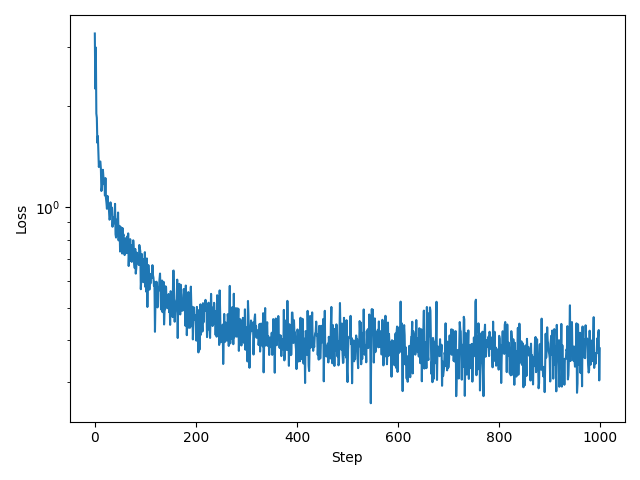
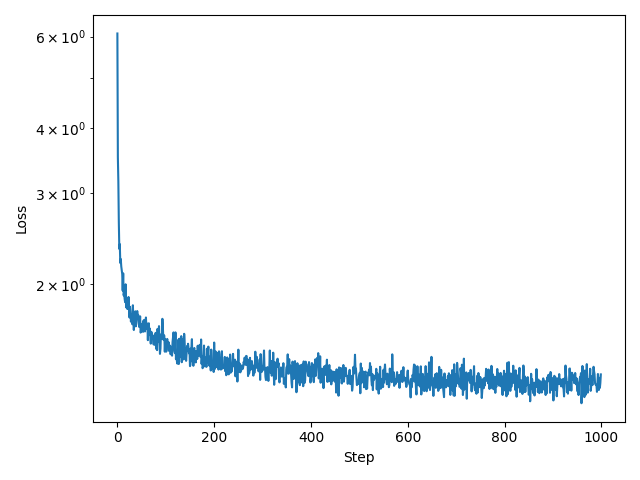
enhanced simple encoder / decoder with normalization and activation

diff --git a/src/diffusion_models/architectures/blocks/encoders.py b/src/diffusion_models/architectures/blocks/encoders.py
@@ -2,10 +2,10 @@ import torch
 import torch.nn as nn
 
 from diffusion_models.architectures.blocks.base import (
+    AdaGroupNorm,
     CrossChannelAttention,
     DepthwiseConv1DExplicit,
     ResidualLayer,
-    ResidualLayer1D,
     SeperableConv1D,
     get_activation,
 )
@@ -51,14 +51,23 @@ class Encoder1D(nn.Module):
         channels_out: int,
         num_residual_layers: int,
         cond_dim: int,
+        num_groups: int = 8,
+        activation: str = "silu",
     ):
         super().__init__()
         self.res_blocks = nn.ModuleList(
-            [ResidualLayer1D(channels_in, cond_dim) for _ in range(num_residual_layers)]
+            [
+                ResidualLayer(channels_in, cond_dim, use_1d=True)
+                for _ in range(num_residual_layers)
+            ]
         )
         self.downsample = nn.Conv1d(
             channels_in, channels_out, kernel_size=3, stride=2, padding=1
         )
+        self.norm = AdaGroupNorm(
+            num_groups=num_groups, num_channels=channels_out, cond_dim=cond_dim
+        )
+        self.activation = get_activation(activation)
 
     def forward(self, x: torch.Tensor, cond_embed: torch.Tensor) -> torch.Tensor:
         """
@@ -72,6 +81,8 @@ class Encoder1D(nn.Module):
 
         # Downsample: (bs, c_in, L) -> (bs, c_out, L // 2)
         x = self.downsample(x)
+        x = self.norm(x, cond_embed)
+        x = self.activation(x)
 
         return x
 
@@ -94,7 +105,7 @@ class TFiLMEncoder(nn.Module):
         super().__init__()
         self.res_blocks = nn.ModuleList(
             [
-                ResidualLayer1D(channels_in, cond_dim=cond_dim)
+                ResidualLayer(channels_in, cond_dim=cond_dim, use_1d=True)
                 for _ in range(num_residual_layers)
             ]
         )
@@ -173,7 +184,7 @@ class HAEncoder(nn.Module):
         # Define Layers
         self.res_blocks = nn.ModuleList(
             [
-                ResidualLayer1D(channels, cond_dim=cond_dim)
+                ResidualLayer(channels, cond_dim=cond_dim, use_1d=True)
                 for _ in range(num_residual_layers)
             ]
         )
@@ -260,7 +271,7 @@ class HAEncoderTFiLM(nn.Module):
         # Define Layers
         self.res_blocks = nn.ModuleList(
             [
-                ResidualLayer1D(channels, cond_dim=cond_dim)
+                ResidualLayer(channels, cond_dim=cond_dim, use_1d=True)
                 for _ in range(num_residual_layers)
             ]
         )
@@ -331,7 +342,7 @@ class HAEncoderImproved(nn.Module):
 
         self.res_blocks = nn.ModuleList(
             [
-                ResidualLayer1D(channels, cond_dim=cond_dim)
+                ResidualLayer(channels, cond_dim=cond_dim, use_1d=True)
                 for _ in range(num_residual_layers)
             ]
         )

diff --git a/src/diffusion_models/architectures/blocks/decoders.py b/src/diffusion_models/architectures/blocks/decoders.py
@@ -2,10 +2,10 @@ import torch
 import torch.nn as nn
 
 from diffusion_models.architectures.blocks.base import (
+    AdaGroupNorm,
     CrossChannelAttention,
     DepthwiseConv1DExplicit,
     ResidualLayer,
-    ResidualLayer1D,
     SeperableConv1D,
     get_activation,
 )
@@ -52,6 +52,8 @@ class Decoder1D(nn.Module):
         channels_out: int,
         num_residual_layers: int,
         cond_dim: int,
+        num_groups: int = 8,
+        activation: str = "silu",
     ):
         super().__init__()
         self.upsample = nn.Sequential(
@@ -60,10 +62,14 @@ class Decoder1D(nn.Module):
         )
         self.res_blocks = nn.ModuleList(
             [
-                ResidualLayer1D(channels_out, cond_dim)
+                ResidualLayer(channels_out, cond_dim, use_1d=True)
                 for _ in range(num_residual_layers)
             ]
         )
+        self.norm = AdaGroupNorm(
+            num_groups=8, num_channels=channels_out, cond_dim=cond_dim
+        )
+        self.activation = get_activation(activation)
 
     def forward(self, x: torch.Tensor, cond_embed: torch.Tensor) -> torch.Tensor:
         """
@@ -73,6 +79,8 @@ class Decoder1D(nn.Module):
         """
         # Upsample: (bs, c_in, L) -> (bs, c_out, 2*L)
         x = self.upsample(x)
+        x = self.norm(x, cond_embed)
+        x = self.activation(x)
 
         # Pass through residual blocks: (bs, c_out, 2*L) -> (bs, c_out, 2*L)
         for block in self.res_blocks:
@@ -132,7 +140,7 @@ class TFiLMDecoder(nn.Module):
             )
         self.res_blocks = nn.ModuleList(
             [
-                ResidualLayer1D(channels_out, cond_dim=cond_dim)
+                ResidualLayer(channels_out, cond_dim=cond_dim, use_1d=True)
                 for _ in range(num_residual_layers)
             ]
         )
@@ -199,7 +207,7 @@ class HADecoder(nn.Module):
 
         self.res_blocks = nn.ModuleList(
             [
-                ResidualLayer1D(channels, cond_dim=cond_dim)
+                ResidualLayer(channels, cond_dim=cond_dim, use_1d=True)
                 for _ in range(num_residual_layers)
             ]
         )
@@ -292,7 +300,7 @@ class HADecoderTFiLM(nn.Module):
 
         self.res_blocks = nn.ModuleList(
             [
-                ResidualLayer1D(channels, cond_dim=cond_dim)
+                ResidualLayer(channels, cond_dim=cond_dim, use_1d=True)
                 for _ in range(num_residual_layers)
             ]
         )
@@ -374,7 +382,7 @@ class HADecoderImproved(nn.Module):
 
         self.res_blocks = nn.ModuleList(
             [
-                ResidualLayer1D(channels, cond_dim=cond_dim)
+                ResidualLayer(channels, cond_dim=cond_dim, use_1d=True)
                 for _ in range(num_residual_layers)
             ]
         )

diff --git a/src/diffusion_models/architectures/blocks/midcoders.py b/src/diffusion_models/architectures/blocks/midcoders.py
@@ -1,7 +1,7 @@
 import torch
 import torch.nn as nn
 
-from diffusion_models.architectures.blocks.base import ResidualLayer, ResidualLayer1D
+from diffusion_models.architectures.blocks.base import ResidualLayer
 from diffusion_models.architectures.blocks.tfilm import TFiLM, TFiLMTransformer
 
 
@@ -29,7 +29,10 @@ class Midcoder1D(nn.Module):
     def __init__(self, channels: int, num_residual_layers: int, cond_dim: int):
         super().__init__()
         self.res_blocks = nn.ModuleList(
-            [ResidualLayer1D(channels, cond_dim) for _ in range(num_residual_layers)]
+            [
+                ResidualLayer(channels, cond_dim, use_1d=True)
+                for _ in range(num_residual_layers)
+            ]
         )
 
     def forward(self, x: torch.Tensor, cond_embed: torch.Tensor) -> torch.Tensor:
@@ -56,7 +59,10 @@ class MidcoderTransformer1D(nn.Module):
     ):
         super().__init__()
         self.res_blocks = nn.ModuleList(
-            [ResidualLayer1D(channels, cond_dim) for _ in range(num_residual_layers)]
+            [
+                ResidualLayer(channels, cond_dim, use_1d=True)
+                for _ in range(num_residual_layers)
+            ]
         )
 
         encoderLayer = nn.TransformerEncoderLayer(
@@ -103,7 +109,7 @@ class TFiLMMidcoder(nn.Module):
         super().__init__()
         self.res_blocks = nn.ModuleList(
             [
-                ResidualLayer1D(channels, cond_dim=cond_dim)
+                ResidualLayer(channels, cond_dim=cond_dim, use_1d=True)
                 for _ in range(num_residual_layers)
             ]
         )
@@ -124,6 +130,7 @@ class TFiLMMidcoder(nn.Module):
         """
         Args:
         - x: (bs, c, L)
+        - cond_embed: (bs, cond_dim)
         """
         # Pass through residual blocks: (bs, c, L) -> (bs, c, L)
         for block in self.res_blocks:

diff --git a/src/diffusion_models/models/standard/one_d_diffusion_model.py b/src/diffusion_models/models/standard/one_d_diffusion_model.py
@@ -12,7 +12,7 @@ device = torch.device("cuda" if torch.cuda.is_available() else "cpu")
 # Initialize probability path
 path = GaussianConditionalProbabilityPath(
     p_data=SineWaveSampler(),
-    p_simple_shape=[1, 32, 32],
+    p_simple_shape=[1, 100 * int(2 * torch.pi)],
     alpha=LinearAlpha(),
     beta=LinearBeta(),
 ).to(device)
@@ -34,4 +34,4 @@ trainer.train(num_epochs=1000, device=device, lr=1e-3, batch_size=250)
 visualize_generated_sine_waves(model=unet, guidance_scales=(1.0, 2.0, 4.0))
 
 # Model summary:
-# trains fast (about 10 it/s), has about 1.8 MiB parameters, achieves loss of around 0.379 after 1000 epochs, samples look good empirically.
+# trains fast (about 8.3 it/s), has about 2.5 MiB parameters, achieves loss of around 0.35 after 1000 epochs, samples look ok empirically.

diff --git a/src/diffusion_models/architectures/blocks/base.py b/src/diffusion_models/architectures/blocks/base.py
@@ -160,18 +160,18 @@ class ResidualLayer(nn.Module):
         - output: same shape as x
         """
         res = x
-        x = self.activation(x)
-        x = self.norm1(x, cond)
         x = self.conv1(x)
+        x = self.norm1(x, cond)
+        x = self.activation(x)
 
         cond_adapted = self.cond_adapter(cond)  # (bs, c)
         for _ in range(x.ndim - 2):
             cond_adapted = cond_adapted.unsqueeze(-1)  # (bs, c, 1, ..., 1)
         x = x + cond_adapted
 
-        x = self.activation(x)
-        x = self.norm2(x, cond)
         x = self.conv2(x)
+        x = self.norm2(x, cond)
+        x = self.activation(x)
 
         return x + res
 

diff --git a/src/diffusion_models/models/standard/wave_diff_model.py b/src/diffusion_models/models/standard/wave_diff_model.py
@@ -29,7 +29,8 @@ net = StandardUNet(
 )
 
 trainer = CFGTrainer(path=path, model=net, eta=0.1, null_label=0)
-trainer.train(num_epochs=2000, device=device, lr=1e-3, batch_size=250)
+trainer.train(num_epochs=1000, device=device, lr=1e-3, batch_size=250)
 
 visualize_generated_waves(model=net, guidance_scales=(1.0, 2.0, 4.0))
 # does not seem to work that well :(
+# model size is 2.6MiB parameters, trains resonably fast at at about 8.4 it/s, loss is about 1.3 after 1000 epochs, samples dont look very good empirically but one can see some structure
